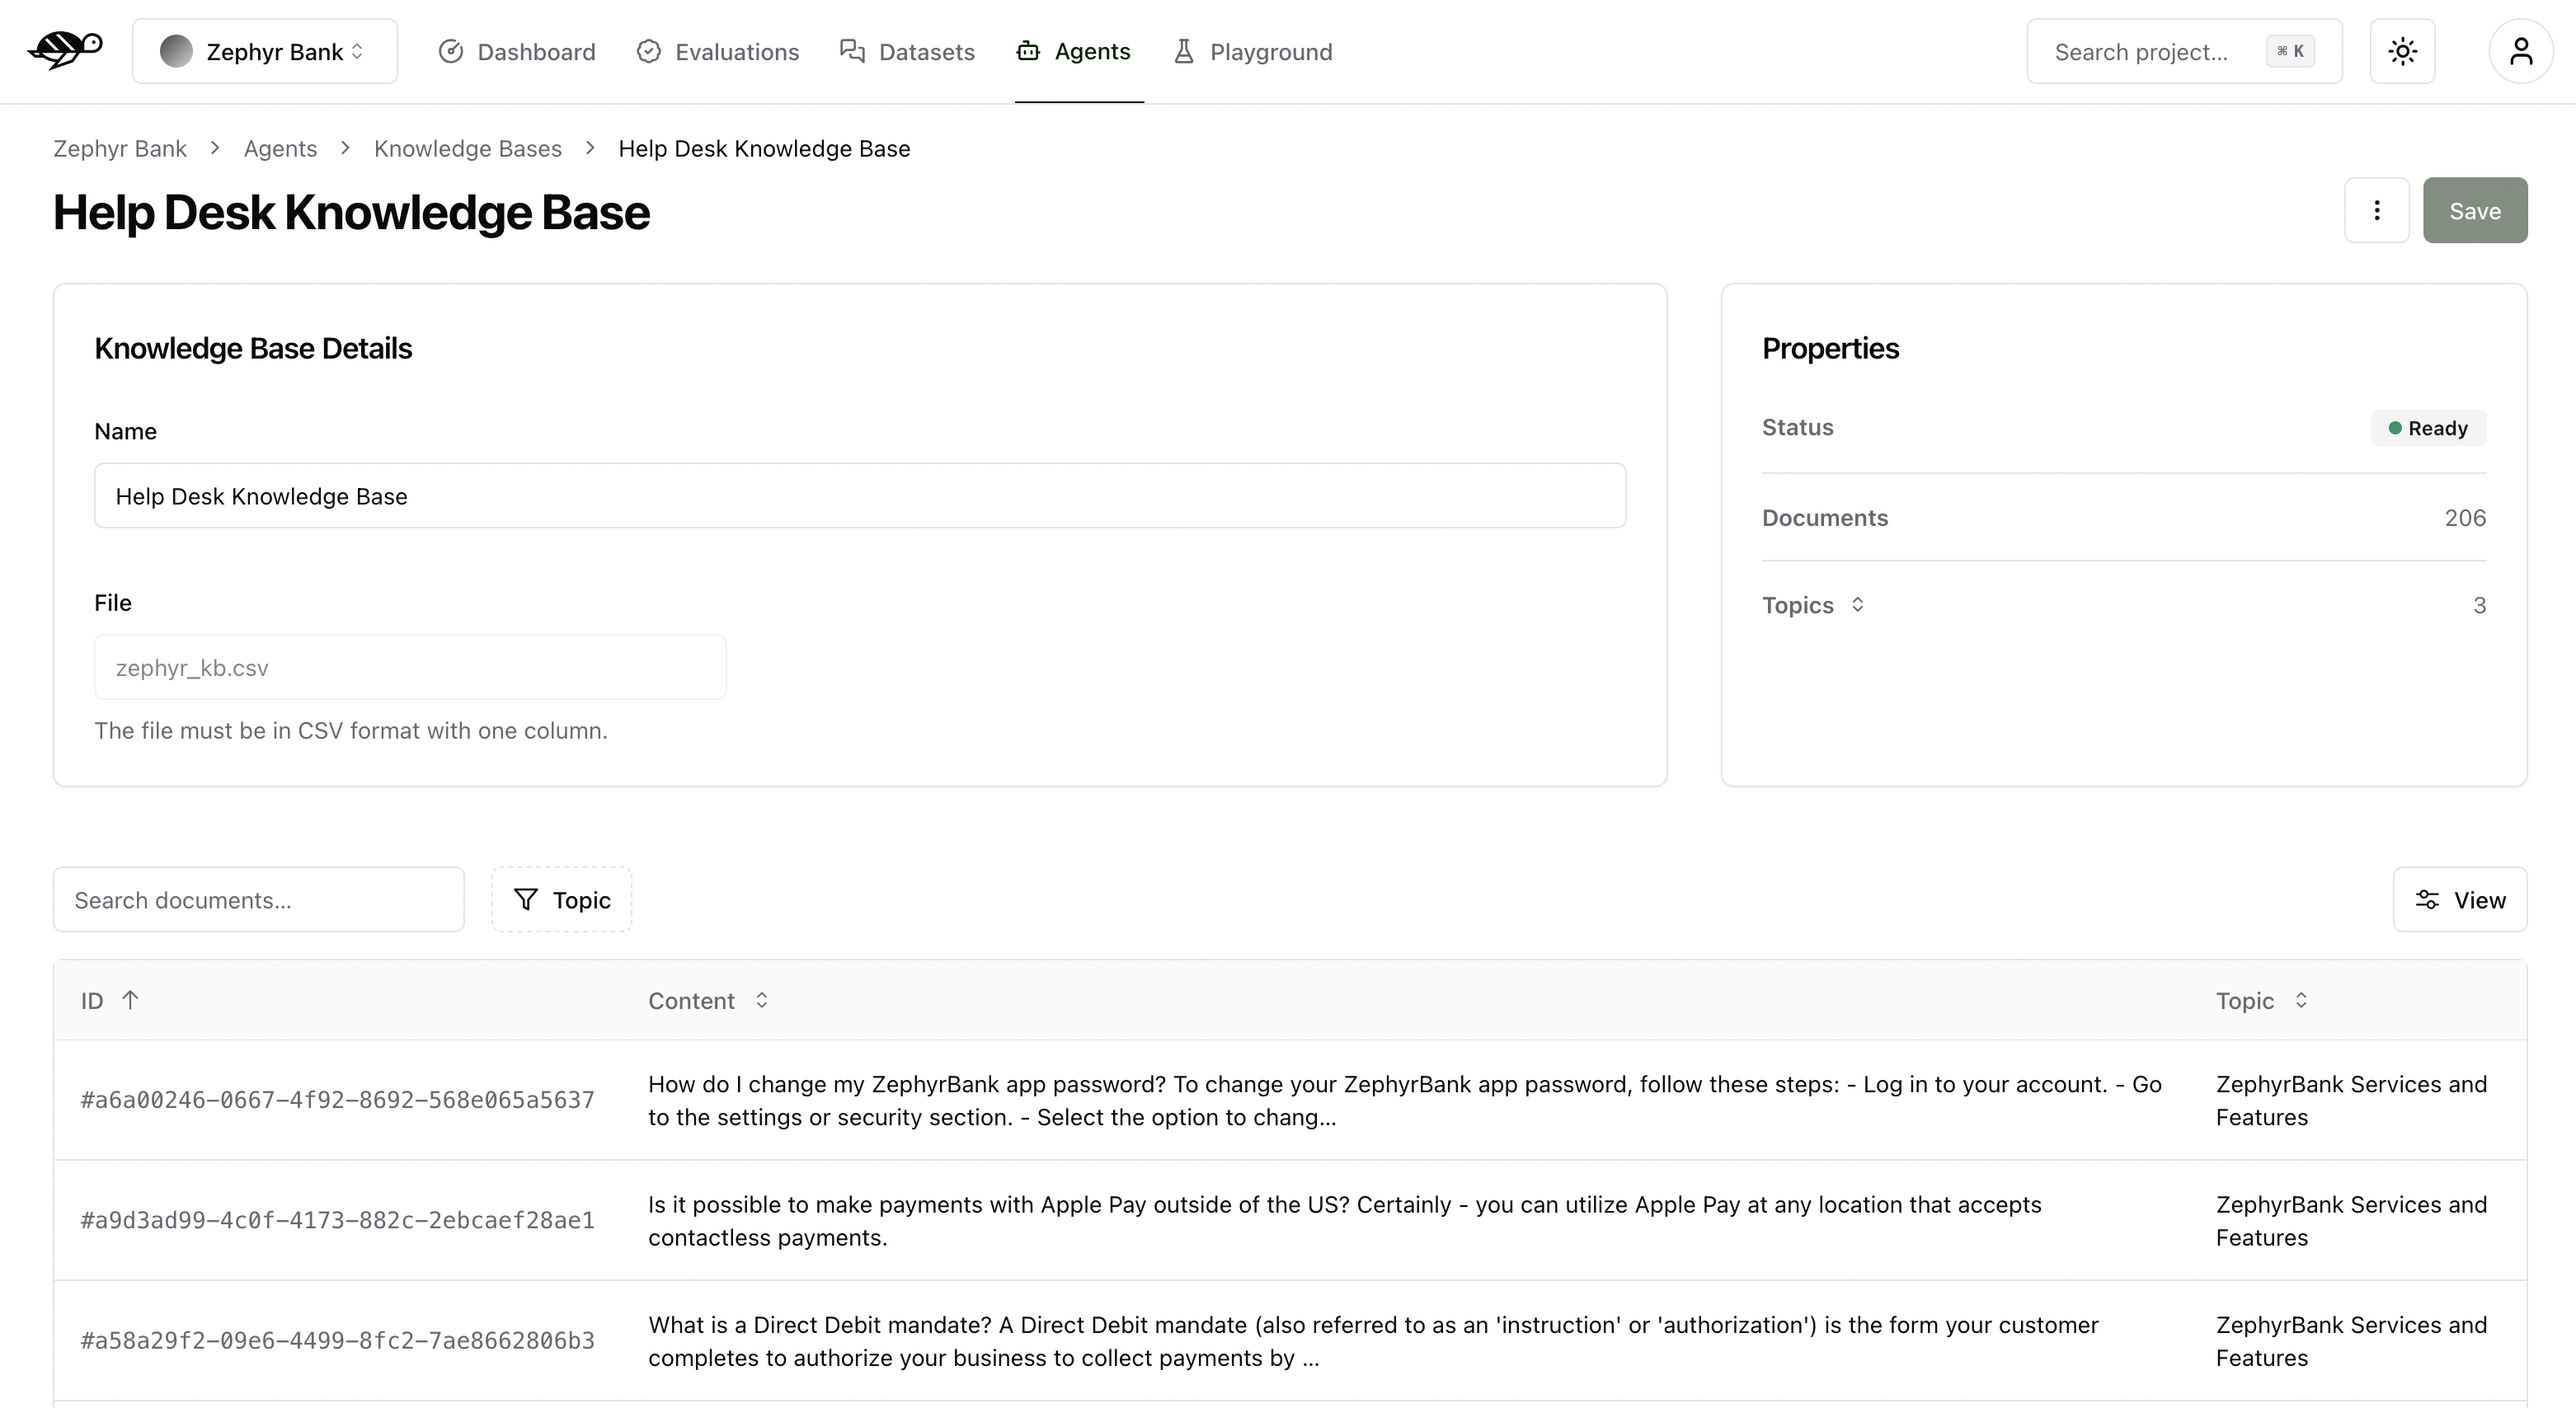
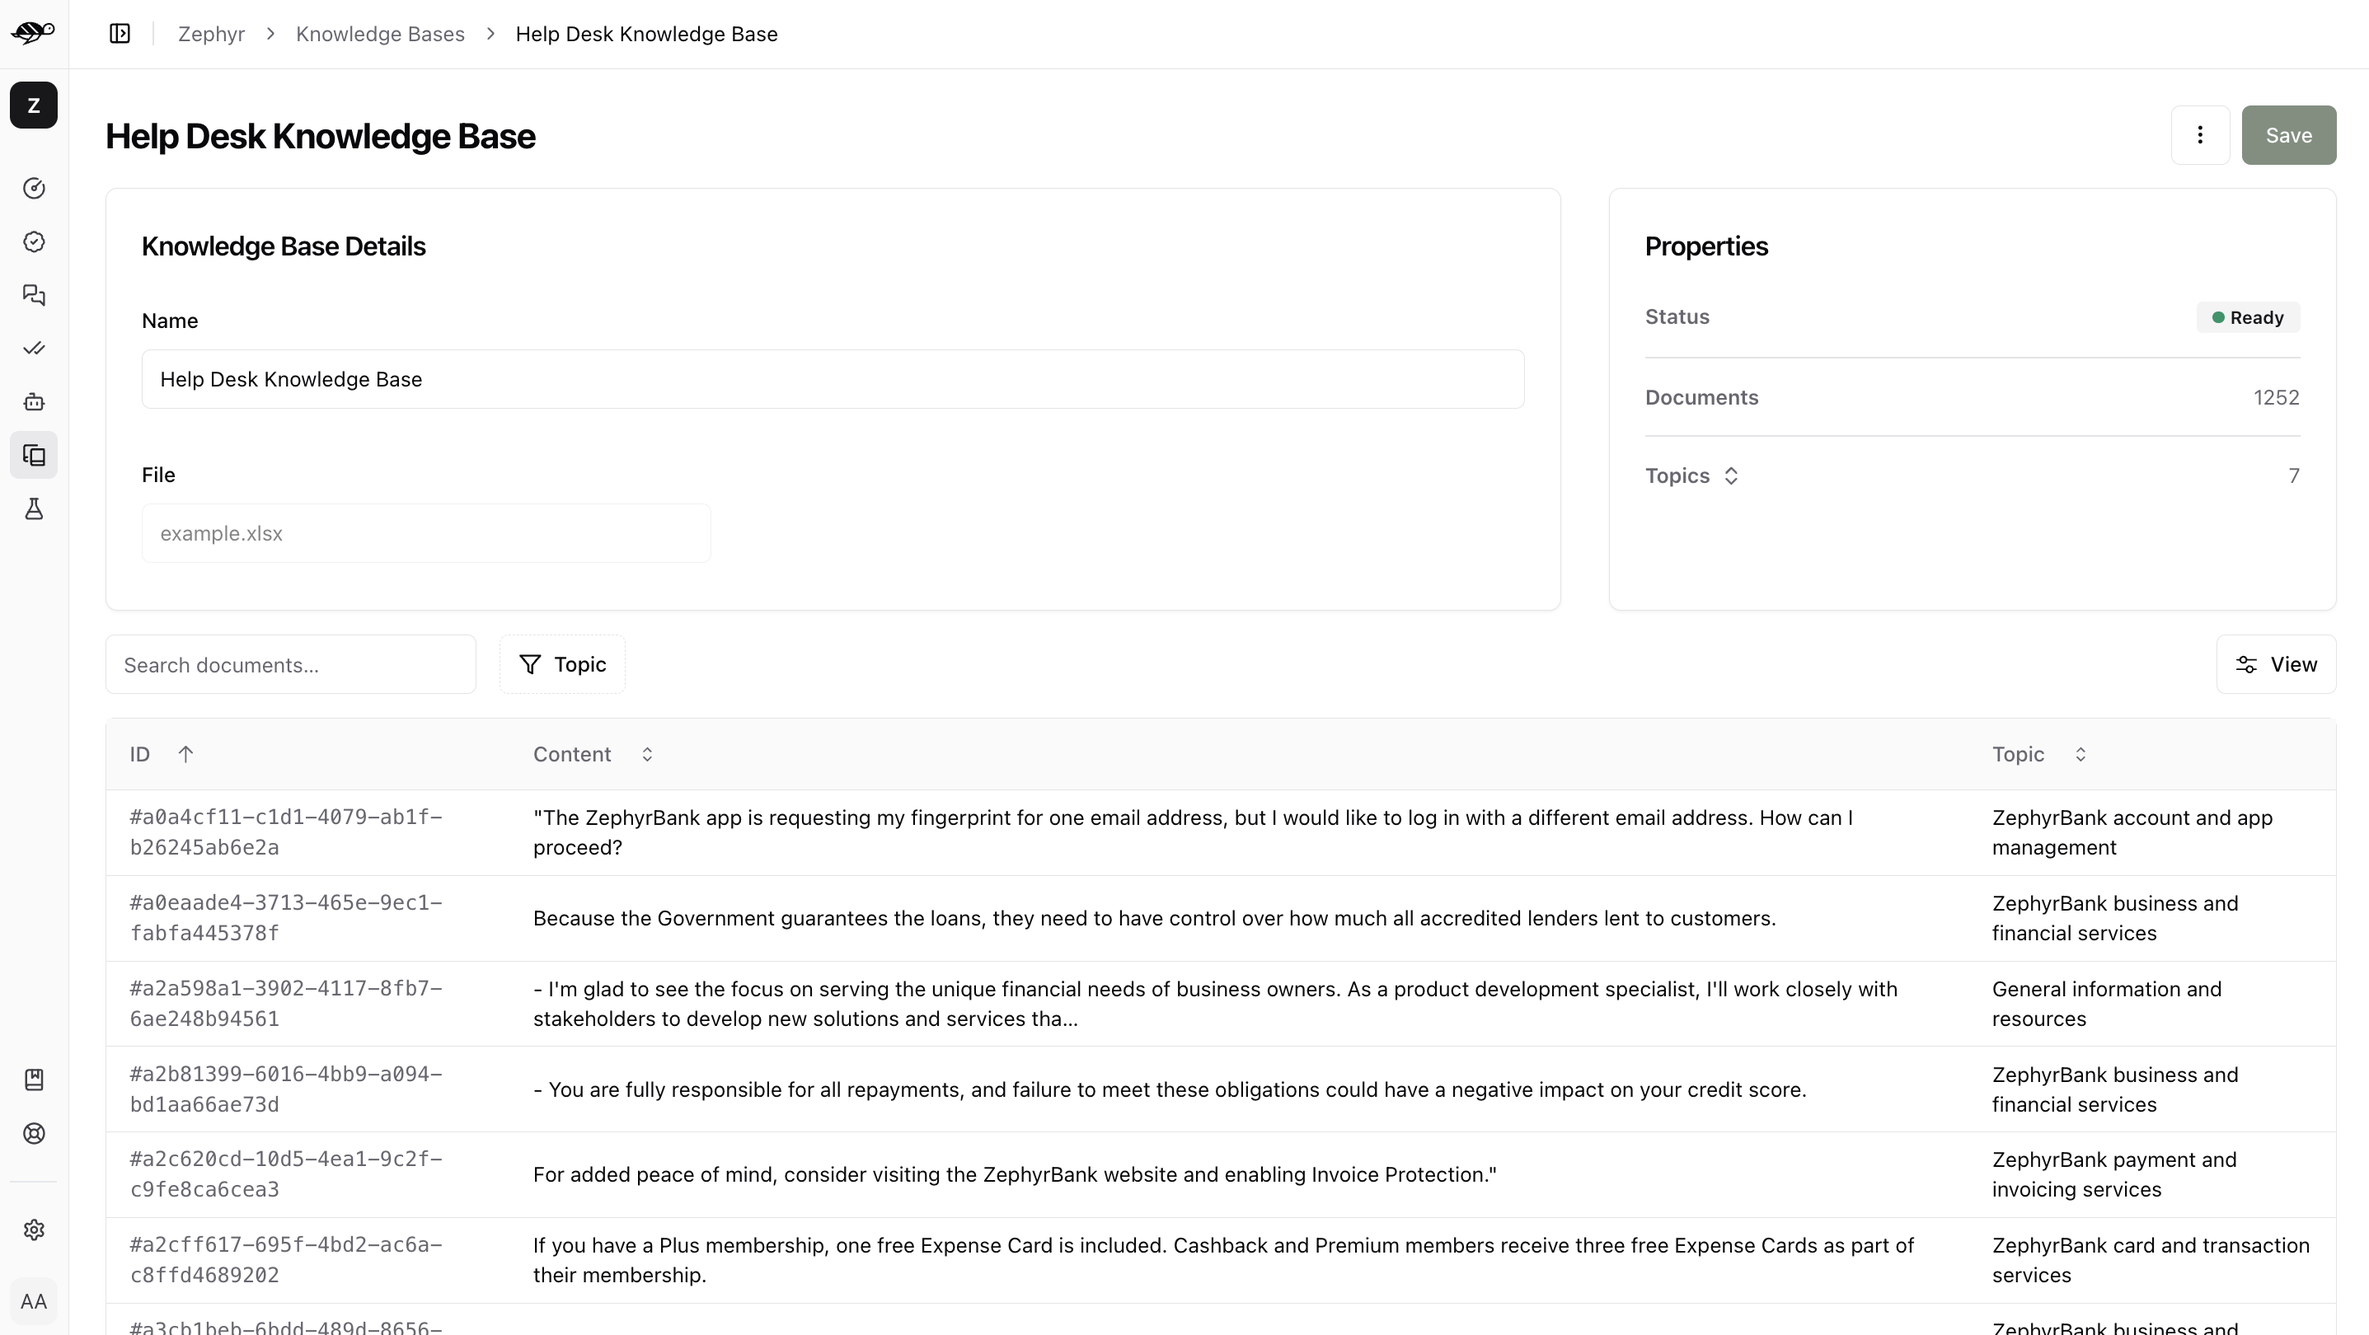
Update hub quickstart

diff --git a/script-docs/hub/quickstart.rst b/script-docs/hub/quickstart.rst
@@ -11,9 +11,9 @@ The Hub is the user interface from which you can perform LLM evaluations. It can
 The Dashboard
 ================
 
-The Dashboard is the first page you'll see upon logging in. It provides an overview of your project, displaying the number of models, datasets, evaluations, and knowledge bases.
+The Dashboard is the first page you'll see upon logging in. It provides an overview of your project, displaying the number of agents, datasets, evaluations, and knowledge bases.
 
-It also features a graph showing the model's performance over time, measured by two metrics: Conformity and Correctness. By default, the bar graph displays Conformity—clicking the Correctness block switches the view to show Correctness data. We'll delve into these metrics in more detail in the Evaluations section.
+It also features a graph showing the agent's performance over time, measured by the average success rate of the evaluations. The success rate is calculated based on some evaluation metrics, such as Conformity, Correctness, and more. We'll delve into these metrics in more detail in the Evaluations section.
 
 Additionally, the dashboard lists your most recent evaluations and datasets for quick access.
 
@@ -26,11 +26,11 @@ Additionally, the dashboard lists your most recent evaluations and datasets for 
 Create a project
 =================
 
-In this section, you will learn how to create a project. Before creating one, ensure you have properly configured the model (see `Setup up the model <quickstart.html#setup-the-model>`_ section).
+In this section, you will learn how to create a project.
 
-Click on the "Settings" icon on the left panel, this page allows you to manage your projects and users (if you have the proper access rights).
+First, click on the "Settings" icon on the left panel, this page allows you to manage your projects and users (if you have the proper access rights).
 
-In the Projects tab, click the "Create project" button. A modal will appear where you can enter your project's name and description.
+In the Projects tab, click on "Create project" button. A modal will appear where you can enter your project's name and description.
 
 .. image:: /_static/images/hub/create-project.png
    :align: center
@@ -40,34 +40,34 @@ In the Projects tab, click the "Create project" button. A modal will appear wher
 Once the project is created, you can access its dashboard by clicking on it in the list. Alternatively, use the dropdown menu in the upper left corner of the screen to select the project you want to work on.
 
 
-Setup the model
+Setup an agent
 ================
 
-This section guides you through creating a new model.
+This section guides you through creating a new agent.
 
 .. note::
     
-    Models are conversational agents configured through an API endpoint. They can be evaluated against datasets.
+    Agents are configured through an API endpoint. They can be evaluated against datasets.
 
-On the Models page, click on the "New model" button.
+On the Agents page, click on the "New agent" button.
 
-.. image:: /_static/images/hub/setup-model-list.png
+.. image:: /_static/images/hub/setup-agent-list.png
    :align: center
-   :alt: "List of models"
+:alt: "List of agents"
    :width: 800
 
-The interface below displays the model details that need to be filled out.
+The interface below displays the agent details that need to be filled out.
 
-.. image:: /_static/images/hub/setup-model-detail.png
+.. image:: /_static/images/hub/setup-agent-detail.png
    :align: center
-   :alt: "Setup the model"
+   :alt: "Setup an agent"
    :width: 800
 
 - ``Name``: The name of the agent.
 - ``Description``: Used to refine automatic evaluation and generation for better accuracy in your specific use case.
-- ``Supported languages``: Add the languages your agent can handle. Note that this affects data generation.
-- ``Connection settings``:
-    - ``Model API endpoint``: The URL of your model's API endpoint. This is where requests are sent to interact with your model.
+- ``Supported Languages``: Add the languages your agent can handle. Note that this affects data generation.
+- ``Connection Settings``:
+    - ``Agent API Endpoint``: The URL of your agent's API endpoint. This is where requests are sent to interact with your agent.
     - ``Headers``: These are useful for authentication and other custom headers
 
 
@@ -124,7 +124,7 @@ On the Knowledge Bases, click on "Add Knowledge Base" button.
    :width: 800
 
 
-The interface below displays the model details that need to be filled out.
+The interface below displays the knowledge base details that need to be filled out.
 
 .. image:: /_static/images/hub/import-kb-detail.png
    :align: center
@@ -136,7 +136,7 @@ The interface below displays the model details that need to be filled out.
     - If the text has a value but the topic is blank, the topic will be set to 'Others'.
     - If both the text and topic are blank, or if the text is blank but the topic has a value, the row will not be imported.
 
-The interface below displays information about the knowledge base and its content with corresponding topics. If no topics were uploaded with the knowledge base, Giskard Hub will identify and generate them for you. In the example below, the knowledge base is ready to be used with over 200 documents and 3 topics.
+The interface below displays information about the knowledge base and its content with corresponding topics. If no topics were uploaded with the knowledge base, Giskard Hub will identify and generate them for you. In the example below, the knowledge base is ready to be used with over 1200 documents and 7 topics.
 
 .. image:: /_static/images/hub/import-kb-success.png
    :align: center
